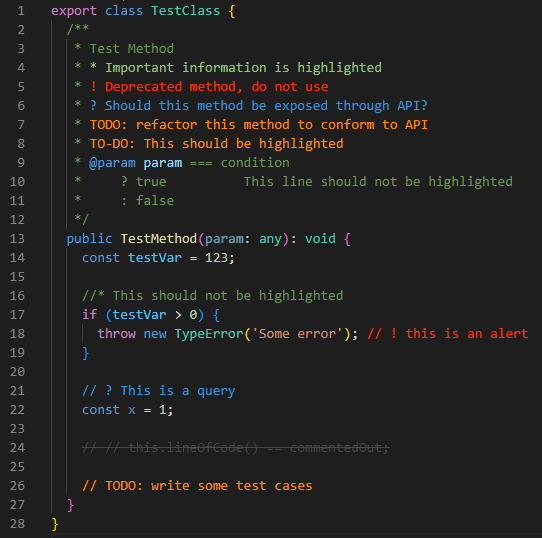
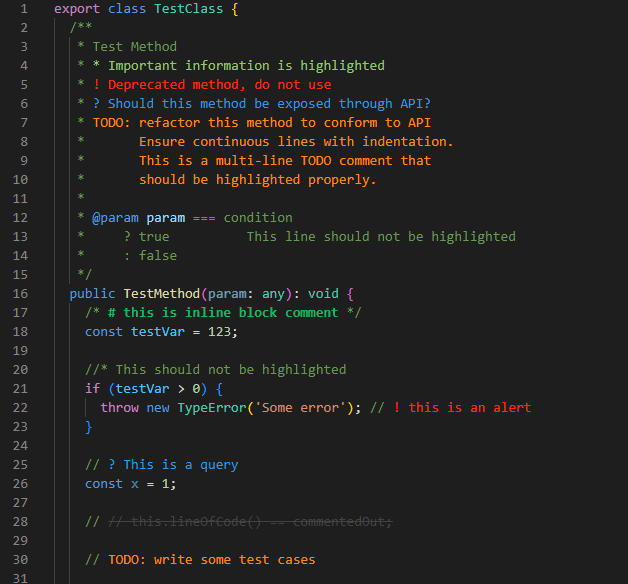
pref: #33 optimize the indentation mode for multi line comments

diff --git a/src/handler/modules/common.ts b/src/handler/modules/common.ts
@@ -131,7 +131,6 @@ export class CommonHandler extends Handler {
 
     const multilineTags = configuration.getMultilineTagsEscaped();
     const lineTags = configuration.getLineTagsEscaped();
-    const allTags = configuration.getAllTagsEscaped();
 
     let block: RegExpExecArray | null;
     while ((block = blockExp.exec(text))) {
@@ -156,9 +155,7 @@ export class CommonHandler extends Handler {
       if (multilineTags.length) {
         const m1Exp = (() => {
           const tag = multilineTags.join('|');
-          const untilTag = `${BR}${SP}*${mark}${SP}(?:${allTags.join('|')})`;
-          const untilEmptyBreak = `${BR}${SP}*${mark}${SP}*${BR}`;
-          return new RegExp(`(?<PRE>${SP}*${mark}${SP})(?<TAG>${tag})(?<CONTENT>${ANY}*?)(?=${untilTag}|${untilEmptyBreak}|$)`, 'gi');
+          return new RegExp(`(?<PRE>${SP}*${mark}${SP})(?<TAG>${tag})(?<CONTENT>${ANY}*)`, 'gi');
         })();
 
         // Find the matched multiline
@@ -177,7 +174,12 @@ export class CommonHandler extends Handler {
           while ((m2 = m2Exp.exec(m1[0]))) {
             this.verifyTaskID(taskID);
 
+            if (!m2.groups!.CONTENT) {
+              continue; // 空行
+            }
+
             if (m2.index !== 0 && m2.groups!.SPACE.length <= 1) {
+              m1Exp.lastIndex = m1.index + m2.index - 1;
               break;
             }
 
@@ -243,15 +245,12 @@ export class CommonHandler extends Handler {
 
     const multilineTags = configuration.getMultilineTagsEscaped();
     const lineTags = configuration.getLineTagsEscaped();
-    const allTags = configuration.getAllTagsEscaped();
 
     // exec with remember last reg index, reset m2Exp avoid reg cache
     const m1Exp = (() => {
       const tag = multilineTags.join('|');
       const pre = `^(?<SPACE1>${SP})|${BR}(?<SPACE2>${SP}*)`;
-      const untilTag = `${BR}${SP}*(?:${allTags.join('|')})`;
-      const untilEmptyBreak = `${BR}${SP}*${BR}`;
-      return new RegExp(`(?<PRE>${pre})(?<TAG>${tag})(?<CONTENT>${ANY}*?)(?=${untilTag}|${untilEmptyBreak}|$)`, 'gi');
+      return new RegExp(`(?<PRE>${pre})(?<TAG>${tag})(?<CONTENT>${ANY}*)`, 'gi');
     })();
 
     const lineExp = new RegExp(`(?<PRE>^${SP}|${BR}${SP}*)(?<TAG>${lineTags.join('|')})(?<CONTENT>.*)`, 'gim');
@@ -306,15 +305,20 @@ export class CommonHandler extends Handler {
             const tagName = m1.groups!.TAG.toLowerCase();
             const m1Space = m1.groups!.SPACE1 || m1.groups!.SPACE2 || '';
 
-            // eslint-disable-next-line regexp/optimal-quantifier-concatenation
-            const m2Exp = /(?<PRE>(?:\n|^)(?<SPACE>[ \t]*)).*/gm;
+            const m2Exp = /(?<PRE>(?:\n|^)(?<SPACE>[ \t]*))(?<CONTENT>.*)/gm;
 
             // Find decoration range
             let m2: RegExpExecArray | null;
             while ((m2 = m2Exp.exec(m1[0]))) {
               this.verifyTaskID(taskID);
+
+              if (!m2.groups!.CONTENT) {
+                continue; // 空行
+              }
+
               const m2Space = m2.groups!.SPACE || '';
               if (m2.index !== 0 && m2Space.length <= m1Space.length) {
+                m1Exp.lastIndex = m1.index + m2.index - 1;
                 break;
               }
 
@@ -391,16 +395,13 @@ export class CommonHandler extends Handler {
 
     const multilineTags = configuration.getMultilineTagsEscaped();
     const lineTags = configuration.getLineTagsEscaped();
-    const allTags = configuration.getAllTagsEscaped();
 
     const blockExp = new RegExp(`(?<PRE>(?:^|${BR})${SP}*)(?<START>${start})(?<CONTENT>${SP_BR}${ANY}*?)(?<END>${end})`, 'g');
 
     const m1Exp = (() => {
       const tag = multilineTags.join('|');
       const preTag = `^${SP}|${SP}*${pre}${SP}`;
-      const untilTag = `${BR}${SP}*${pre}${SP}(${allTags.join('|')})`;
-      const untilEmptyBreak = `${BR}${SP}*${pre}${SP}*${BR}`;
-      return new RegExp(`(?<PRE>${preTag})(?<TAG>${tag})(?<CONTENT>${ANY}*?)(?=${untilTag}|${untilEmptyBreak})`, 'gi');
+      return new RegExp(`(?<PRE>${preTag})(?<TAG>${tag})(?<CONTENT>${ANY}*)`, 'gi');
     })();
 
     const tags = lineTags.join('|');
@@ -434,20 +435,25 @@ export class CommonHandler extends Handler {
           const tagName = m1.groups!.TAG.toLowerCase();
 
           // exec with remember last reg index, reset m2Exp avoid reg cache
-          const m2Exp = new RegExp(`(^|${SP}*${pre})(${SP}*)([^\\n]*?)(\\n|$)`, 'gi');
+          const m2Exp = new RegExp(`(?<PRE>${SP}*${pre}|^)(?<SPACE>${SP}*)(?<CONTENT>.*)`, 'gim');
 
           // Find decoration range
           let m2: RegExpExecArray | null;
           while ((m2 = m2Exp.exec(m1.groups!.TAG + m1.groups!.CONTENT))) {
             this.verifyTaskID(taskID);
 
-            const m2Space = m2[2] || '';
+            if (!m2.groups!.CONTENT) {
+              continue; // 空行
+            }
+
+            const m2Space = m2.groups!.SPACE || '';
             if (m2.index !== 0 && m2Space.length <= 1) { // 必须大于1个空格缩进
+              m1Exp.lastIndex = m1.index + m2.index - 1;
               break;
             }
 
             const m2StartSince = m1Start + m1.groups!.PRE.length + m2.index;
-            const m2Start = m2StartSince + m2[1].length;
+            const m2Start = m2StartSince + m2.groups!.PRE.length;
             const m2End = m2StartSince + m2[0].length;
             // store processed range
             lineProcessed.push([m2Start, m2End]);

diff --git a/samples/typescript.ts b/samples/typescript.ts
@@ -5,9 +5,10 @@ export class TestClass {
    * ! Deprecated method, do not use
    * ? Should this method be exposed through API?
    * TODO: refactor this method to conform to API
-   *       todo is the multi-line comment
-   *       will break until empty line
-   * 
+   *       Ensure continuous lines with indentation.
+   *       This is a multi-line TODO comment that
+   *       should be highlighted properly.
+   *
    * @param param === condition
    *     ? true          This line should not be highlighted
    *     : false
@@ -30,20 +31,18 @@ export class TestClass {
 
     /*
       todo: multi-line in block comment example
-            it will break until empty line
-            or final line of the comment
+            Ensure continuous lines with indentation.
+            This is a multi-line TODO comment
+            that should be highlighted properly.
     */
 
 
     // ! line comment multi-line mode
-    // TODO: refactor this method to conform to API
-    //       todo is the multi-line comment
-    //       will break until empty line
-    
     //
-    // todo: multi-line in block comment example
-    // it will break until empty line
-    // or final line of the comment
+    // TODO: multi-line in block comment example
+    //       Ensure continuous lines with indentation.
+    //       This is a multi-line TODO comment
+    //       that should be highlighted properly.
     //
   }
 }

diff --git a/samples/javascript.js b/samples/javascript.js
@@ -12,9 +12,9 @@ const myVar = 123;
 /**
  * My Function
  * ! Some Alert
- * TODO: multiline comment
- *       will be break with empty line
- * 
+ * TODO: multiline comment example
+ *       ensure continuous lines with indentation.
+ *
  * ?  Questions
  * * Highlights
  */

diff --git a/samples/nested.cs b/samples/nested.cs
@@ -3,7 +3,7 @@
     ! This class is not for public use
 
     TODO is multiline comment
-    will be break with empty line
+         ensure continuous lines with indentation.
 
     * Highlight to draw attention
     ? Maybe I should indent less
@@ -204,7 +204,7 @@ public class MyClass
  This is my class
     ! This class is not for public use
     TODO Create some copyright notices
-    
+
     * Highlight to draw attention
     ? Maybe I should indent less
  */

diff --git a/samples/ruby.rb b/samples/ruby.rb
@@ -6,9 +6,8 @@ end
 
 # # call function
 say_hello
-  
+
 #
 # todo: multi-line in block comment example
-#       it will break until empty line
-#       or final line of the comment
+#       ensure continuous lines with indentation.
 #
